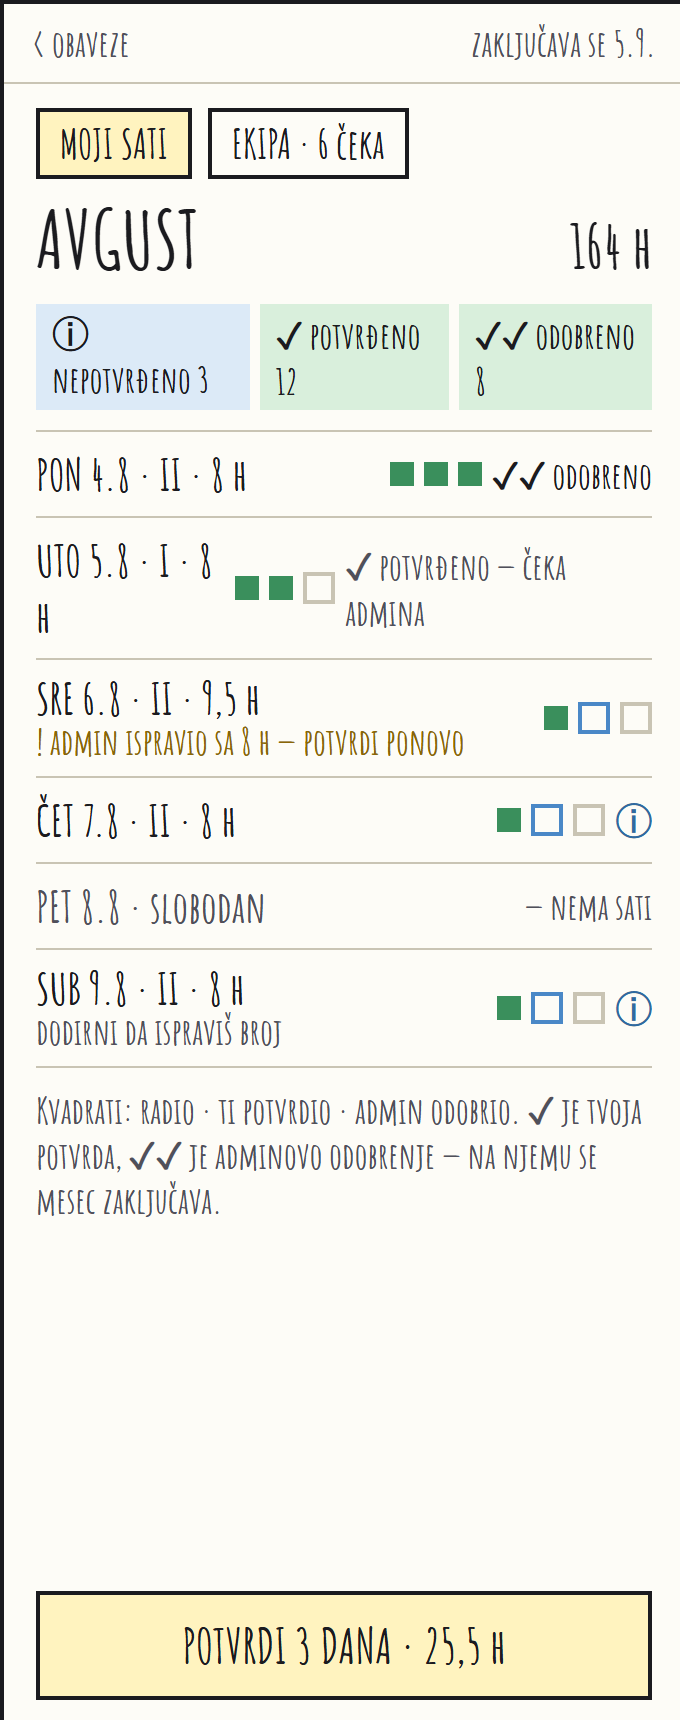
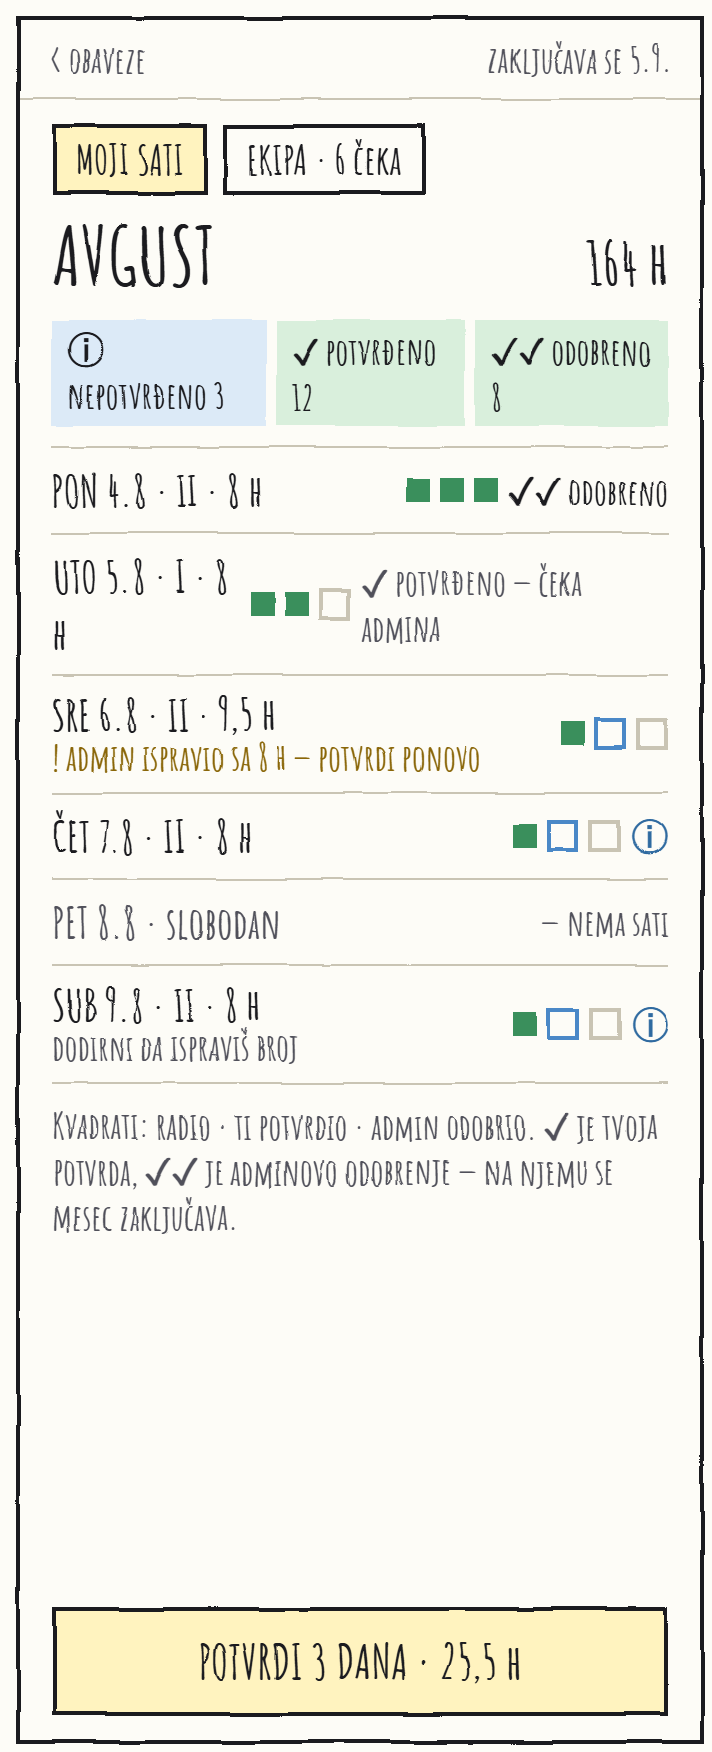
Wobble the Smenager screens and let them fill the card
Re-rendered through an SVG turbulence and displacement filter, so every
edge sits a couple of pixels off true and reads as a pen line rather than
a CSS border. Each screen gets its own seed so the three do not wobble in
unison. 8px of padding keeps the displaced frame from clipping.

Dropped the heading and the paragraph above them, and widened the grid to
the full card. The claim that these are proposals rather than shipped work
moved into the first reviewer bullet, which is also where the middle screen
now gets referenced.

Changed region(s): [[0.0, 0.0, 1.0, 1.0]]

diff --git a/index.html b/index.html
@@ -96,32 +96,24 @@
         and sends the right push to the right people.
       </p>
 
-      <h4>Next structure</h4>
-      <p class="shots-note">
-        These are proposals, not the shipped app. Three moments from one flow: what a worker
-        sees on opening, where a request has got to, and how a month of hours gets confirmed.
-        The handwriting face is the app's own. Smenager replaces a photo pinned in a Viber
-        group, not an enterprise rota tool, and it is drawn to say so. Click any screen for
-        full size.
-      </p>
       <div class="shots">
         <figure>
           <a href="smenager-today.png" target="_blank" rel="noopener">
-            <img src="smenager-today.png" width="680" height="1720" loading="lazy"
+            <img src="smenager-today.png" width="712" height="1752" loading="lazy"
                  alt="Phone screen showing today's and tomorrow's shift, then two things waiting on the worker">
           </a>
           <figcaption>The twenty-second read</figcaption>
         </figure>
         <figure>
           <a href="smenager-requests.png" target="_blank" rel="noopener">
-            <img src="smenager-requests.png" width="680" height="1720" loading="lazy"
+            <img src="smenager-requests.png" width="712" height="1752" loading="lazy"
                  alt="Phone screen listing a worker's swap, wish and shift-drop requests, each with a progress bar">
           </a>
           <figcaption>Where a request stands</figcaption>
         </figure>
         <figure>
           <a href="smenager-hours.png" target="_blank" rel="noopener">
-            <img src="smenager-hours.png" width="680" height="1720" loading="lazy"
+            <img src="smenager-hours.png" width="712" height="1752" loading="lazy"
                  alt="Phone screen listing a month of days with hours worked and a three-step confirmation ladder per day">
           </a>
           <figcaption>A month of hours</figcaption>
@@ -131,6 +123,11 @@
       <h4>Parts I would show a reviewer</h4>
       <ul class="bullets">
         <li>
+          <strong>Structure gets drawn before it gets built.</strong> Those three screens are
+          proposals, not shipped work. One flow, three moments, so the argument about where a
+          worker's obligations live happens on paper instead of costing a cycle.
+        </li>
+        <li>
           <strong>A deterministic auto-draft planner.</strong> Fill an empty week in one tap.
           It works down a strict priority hierarchy and then runs exact repair sweeps, so the
           same input always produces the same rota and an admin can argue with the result
@@ -139,7 +136,9 @@
         <li>
           <strong>Swaps that respect what people actually trade.</strong> A day off is a first
           class thing to swap, not the absence of a shift, so two people can exchange a
-          Saturday shift for a Tuesday off and the grid stays consistent on both days.
+          Saturday shift for a Tuesday off and the grid stays consistent on both days. The
+          middle screen is where a worker watches one land: sent, seen, decided, outcome, with
+          the admin's reason attached to a rejection.
         </li>
         <li>
           <strong>Ops switches with no redeploy.</strong> The auto-draft, the work roles feature,

diff --git a/styles.css b/styles.css
@@ -357,16 +357,14 @@ h1, h2, h3, h4 { line-height: 1.2; letter-spacing: -0.015em; }
 .bullets strong { color: var(--text); font-weight: 600; }
 
 /* Three artboards of identical proportion, so equal columns keep them level.
-   The cap holds them at phone scale; clicking one opens it full size. */
+   They take the full card width; clicking one opens it full size. */
 .shots {
   display: grid;
   grid-template-columns: repeat(3, 1fr);
   align-items: start;
-  gap: 14px;
-  margin: 16px 0 0;
-  max-width: 520px;
+  gap: 18px;
+  margin: 24px 0 4px;
 }
-.shots-note { margin-bottom: 6px !important; }
 .shots figure { margin: 0; min-width: 0; }
 .shots a {
   display: block;
@@ -394,14 +392,13 @@ h1, h2, h3, h4 { line-height: 1.2; letter-spacing: -0.015em; }
 @media (max-width: 640px) {
   .shots {
     display: flex;
-    max-width: none;
     overflow-x: auto;
     gap: 14px;
     padding-bottom: 8px;
     scroll-snap-type: x proximity;
     overscroll-behavior-x: contain;
   }
-  .shots figure { flex: 0 0 150px; scroll-snap-align: start; }
+  .shots figure { flex: 0 0 170px; scroll-snap-align: start; }
 }
 
 .facts {
